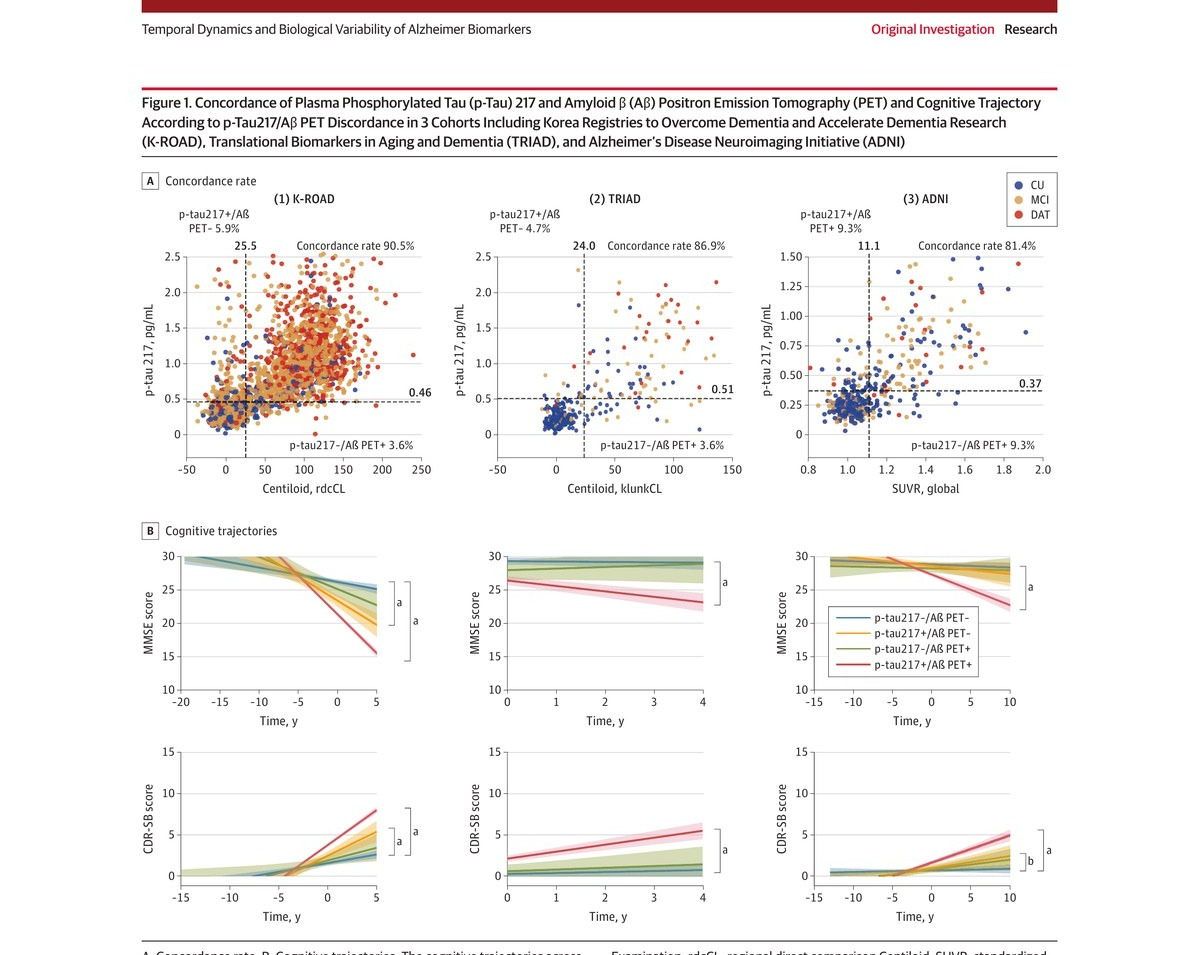
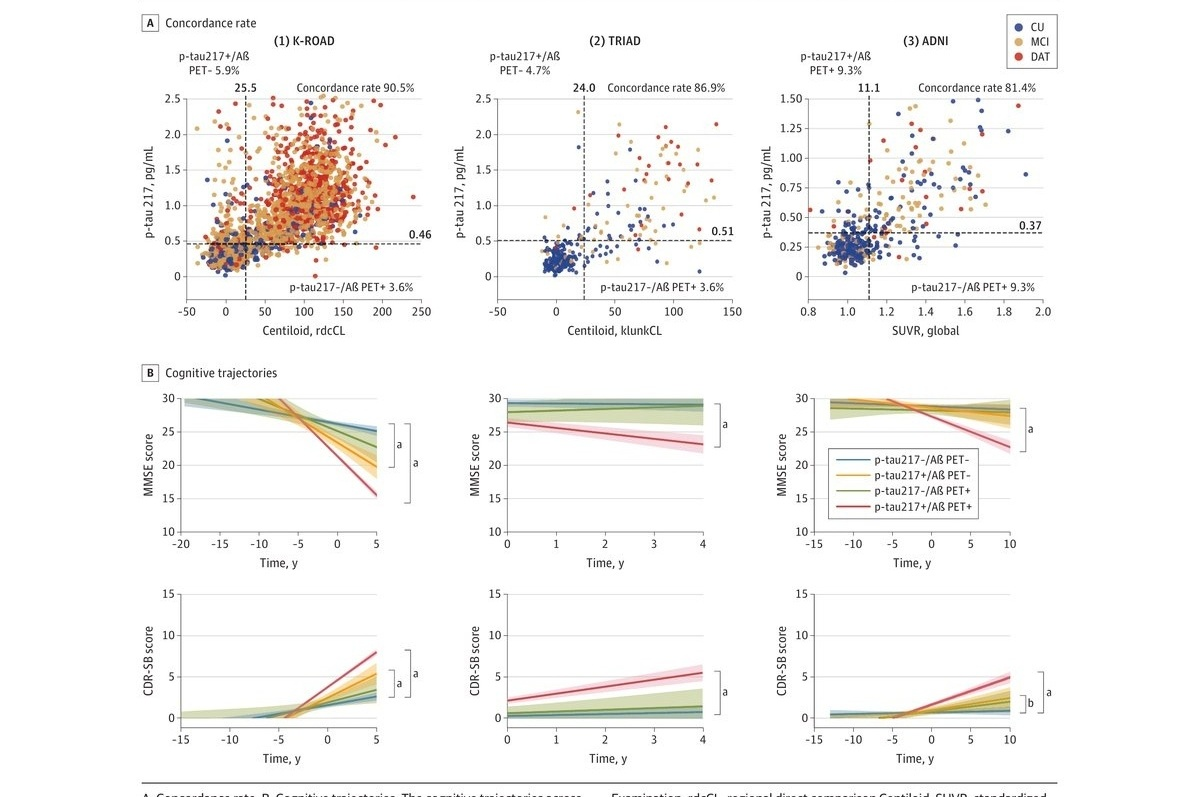
Reduce excessive whitespace around figures
- Crop PDF chrome (red bar, journal header, horizontal rule) from figure1.jpg and figure2.jpg
- Reduce .section padding 3rem→2rem, .figure margin 1.5rem→1rem
- Reduce .figure-annotation margins and .page bottom padding
- Update responsive breakpoint spacing accordingly

diff --git a/css/style.css b/css/style.css
@@ -162,7 +162,7 @@ a:hover {
 .page {
   max-width: var(--max-w);
   margin: 0 auto;
-  padding: 0 2.5rem 8rem;
+  padding: 0 2.5rem 4rem;
 }
 
 /* ----------------------------------------------------------
@@ -494,7 +494,7 @@ a:hover {
    7. Sections
    ---------------------------------------------------------- */
 .section {
-  padding: 3rem 0;
+  padding: 2rem 0;
   border-bottom: 1px solid var(--border-light);
 }
 
@@ -1087,7 +1087,7 @@ h3 {
    ---------------------------------------------------------- */
 .figure {
   text-align: center;
-  margin: 1.5rem 0;
+  margin: 1rem 0;
 }
 
 .figure-frame {
@@ -1684,7 +1684,7 @@ pre {
 
   /* Section padding */
   .section {
-    padding: 2rem 0;
+    padding: 1.5rem 0;
   }
 
   .section-title {
@@ -1727,7 +1727,7 @@ pre {
 
   /* Page padding */
   .page {
-    padding: 0 1rem 6rem;
+    padding: 0 1rem 3rem;
   }
 
   /* Step flow — vertical */
@@ -1803,8 +1803,8 @@ pre {
   border: 1px solid var(--border);
   border-radius: var(--radius-lg);
   padding: 1.5rem 1.8rem;
-  margin-top: 1rem;
-  margin-bottom: 1.5rem;
+  margin-top: 0.75rem;
+  margin-bottom: 0.75rem;
   box-shadow: var(--shadow-sm);
 }
 
